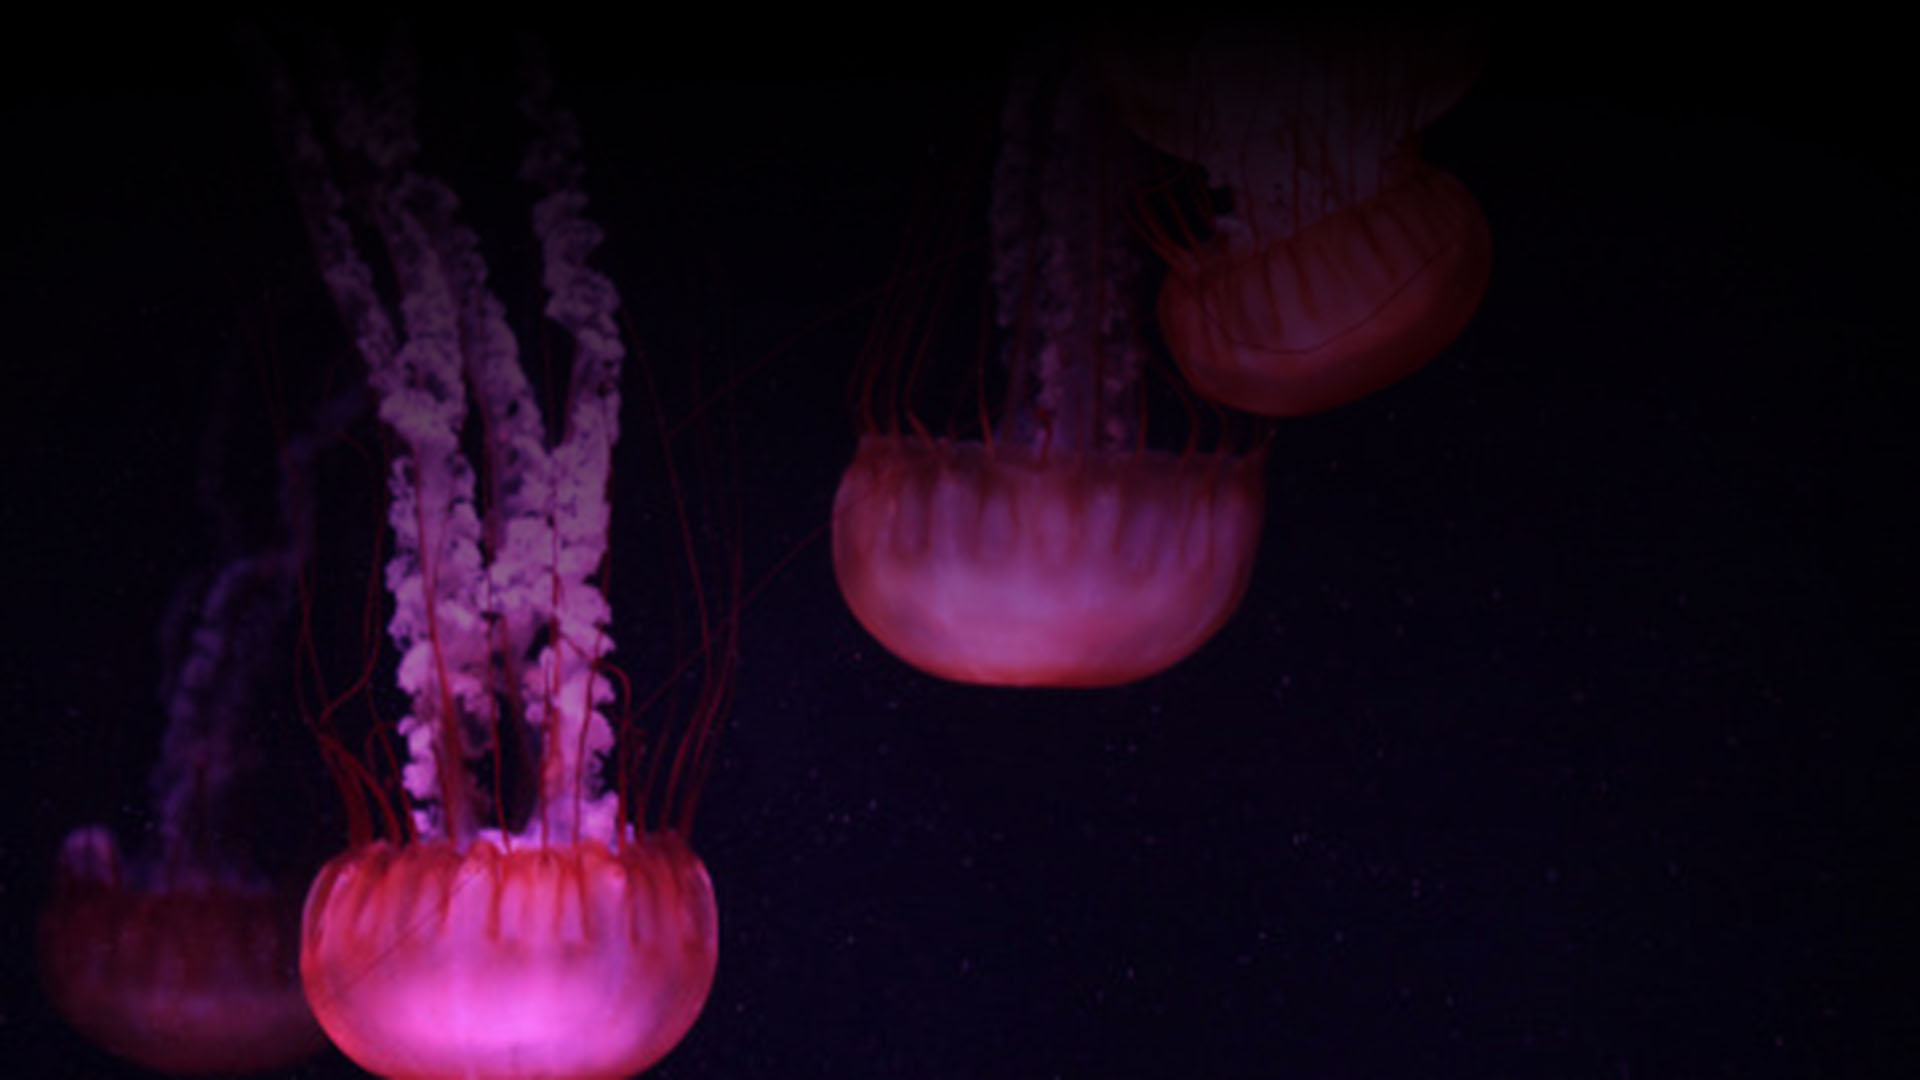
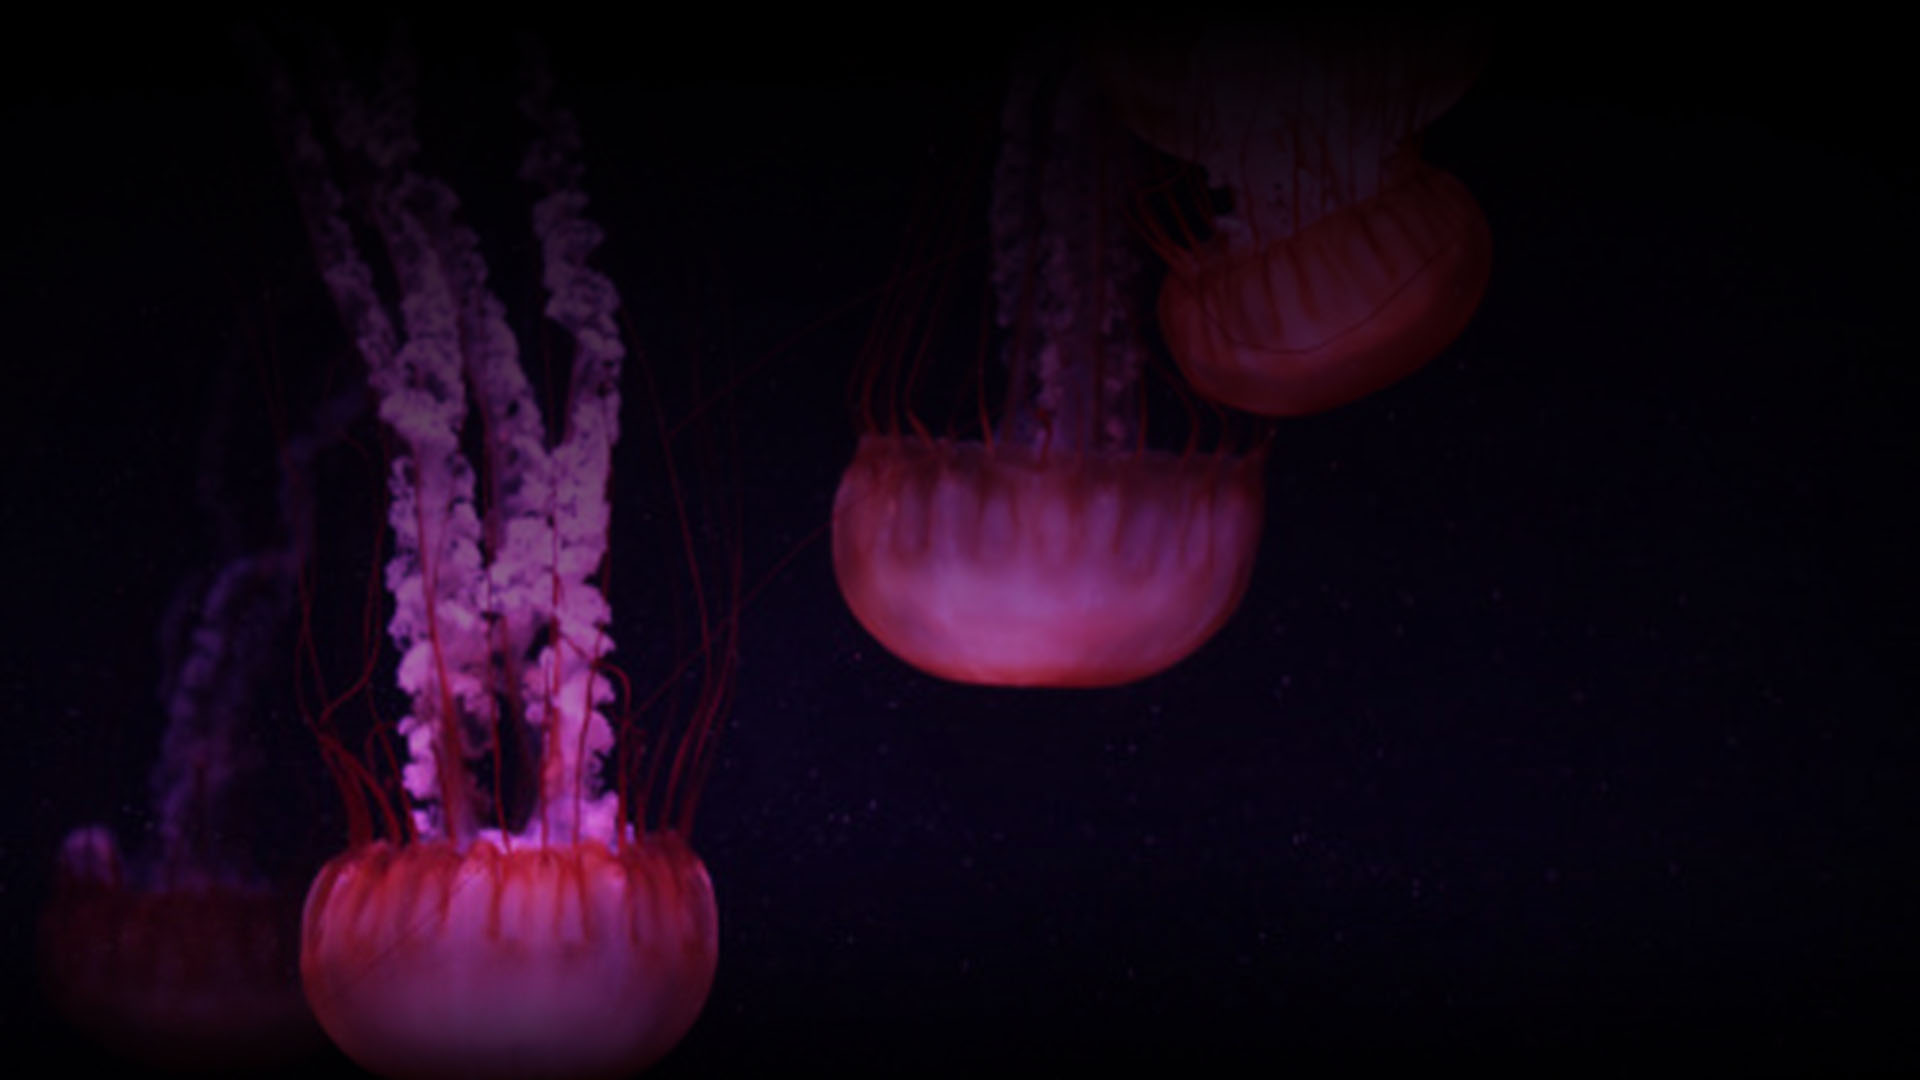
Add files via upload

Changed region(s): [[0.0312, 0.7944, 0.375, 1.0]]

diff --git a/Website Year 13 - Jonty/index.html b/Website Year 13 - Jonty/index.html
@@ -4,7 +4,7 @@
 <head>
 	<meta charset="utf-8">
 	<meta name="viewport" content="width=device-width, initial-scale=1">
-	<link rel="icon" href="">
+	<link rel="icon" href="https://www.pngmart.com/files/6/Jellyfish-PNG-Transparent-HD-Photo.png">
 	<link rel="stylesheet" href="css/style.css"> 
 	<link href="https://fonts.googleapis.com/css2?family=Titan+One&display=swap" rel="stylesheet">
 	<link href="https://fonts.googleapis.com/css2?family=Signika:wght@500&display=swap" rel="stylesheet">
@@ -32,31 +32,87 @@ function closeNav() {
 }
 </script>
 
-
-<div class="col-11 col-s-11 header">
-	<h1 style="color:#f45b69">Aroura</h1>
+<div class="col-1 col-s-1 logo header">
+<img src="file://ihssvr1/studentmydocs$/jonty.cavey/My%20Documents/Website%20Year%2013%20-%20Jonty/images/jelly_logo.png" style="width:100px;height:100px;opacity:50%;padding-left:30px;">
 </div>
 
-<div class="col-1 col-s-1 nav">
-	<span style="font-size:40px;cursor:pointer;color:#98DFEA" onclick="openNav()">&#9776;</span>
+<div class="col-10 col-s-11 header">
+	<h1>Aroura</h1>
+</div>
+
+<div class="col-1 col-s-1 nav header">
+	<span onclick="openNav()">&#9776;</span>
 </div>
 
 <div class="row">
 	<div class="col-5 col-s-5 info_box">
-		<h2 style="color:#98DFEA">We make games, for players<br> to enjoy. Join us.</h2>
-		<p>We are looking for opportunists that want to take the next step in their career. We believe that even people with little experience can become the best at what they do. Hiring Now.</p>
+		<h2>We make games, for players<br> to enjoy. Join us.</h2>
+		<p>We are looking for opportunists that want to take the next step in their career. We believe that independent developers are making new and great games that can rival AAA games. Join us and expand your reach.</p>
 	</div>
 </div>
 
 <div class="row">
 	<div class="col-5 col-s-5 info_box">
-		<h2>2</h2>
-		<p>Lorem ipsum dolor sit amet,</p>
-		<p>hello</p>
+		<h2>Become a member today <br>and enjoy tomorrow.</h2>
+		<p>With Aroura you will be able to have your games advertised and promoted by us for you to have a larger reach to an even larger audience. We make advertising easy for you and your games.</p>
 	</div>
 </div>
 
+<div class="row">
 
+<div class="col-3 col-s-3 footer">
+<img src="file://ihssvr1/studentmydocs$/jonty.cavey/My%20Documents/Website%20Year%2013%20-%20Jonty/images/jelly_logo.png" style="width:150px;height:150px;opacity:50%;padding-left:120px;">
+</div>
+
+<div class="col-3 col-s-3 footer footer_mid">
+	<ul>
+		<li class="list_head">
+		Contact
+			<ul>
+				<li class="list_body">
+					<a>gg</a>
+				</li>
+				<li class="list_body">
+					<a>gg</a>
+				</li>
+			</ul>
+		</li>
+	</ul>
+</div>
+
+<div class="col-3 col-s-3 footer footer_mid">
+	<ul>
+		<li class="list_head">
+		Store
+			<ul>
+				<li class="list_body">
+					<a>gg</a>
+				</li>
+				<li class="list_body">
+					<a>gg</a>
+				</li>
+			</ul>
+		</li>
+	</ul>
+</div>
+
+<div class="col-3 col-s-3 footer footer_mid">
+	<ul>
+		<li class="list_head">
+		Want to Know More?
+			<ul>
+				<li class="list_body">
+					<a>gg</a>
+				</li>
+				<li class="list_body">
+					<a>gg</a>
+				</li>
+			</ul>
+		</li>
+	</ul>
+</div>
+
+</div>
 
 </body>
 

diff --git a/Website Year 13 - Jonty/css/style.css b/Website Year 13 - Jonty/css/style.css
@@ -7,6 +7,7 @@ body {
 	background-color: #2c302e;
 	margin: 0;
 	padding: 0;
+	color: #f45b69;
 }
 
 h1 {
@@ -14,28 +15,67 @@ h1 {
 	text-align: center;
 	color: white;
 	font-family: 'Titan One', cursive;
+	color: #98DFEA
 }
 
 h2 {
 	font-size: 48px;
 	font-family: 'Signika', sans-serif;
 	text-align: left;
+	color: #98DFEA
 }
 
 p {
-	text-align: center;
+	text-align: left;
 	font-size: 23px;
 	font-family: 'Martel', serif;
 }
 
+ul {
+	list-style-type: none;
+}
+
+.list_head {
+	font-size: 23px;
+	color: white;
+	text-align: left;
+}
+
+.list_body {
+	font-size: 15px;
+	color: #98DFEA;
+	text-align: left;
+}
+
+li a:hover {
+	color: #f45b69;
+}
+
 .header {
+	padding-top: 30px;
 }
 
 span {
+	color: #98DFEA;
+	cursor: pointer;
+	font-size: 40px;
+}
+
+img {
+	filter: saturate(9);
 }
 
 .info_box {
 	padding: 100px;
+}
+
+.footer {
+	background-color: rgba(44, 48, 46, 0.5);
+	height: 190px;
+}
+
+.footer_mid {
+	font-family: 'Martel', serif;
 }
 
 .sidenav {
@@ -49,19 +89,20 @@ span {
 	overflow-x: hidden; 
 	padding-top: 60px; 
 	transition: 0.5s; 
+	background-color: #2c302e;
 }
 
 .sidenav a {
 	padding: 8px 8px 8px 32px;
 	text-decoration: none;
 	font-size: 25px;
-	color: #f45b69;
+	color: #98DFEA;
 	display: block;
 	transition: 0.8s;
 }
 
 .sidenav a:hover {
-	color: #2c302e;
+	color: #f45b69;
 }
 
 .sidenav .closebtn {
